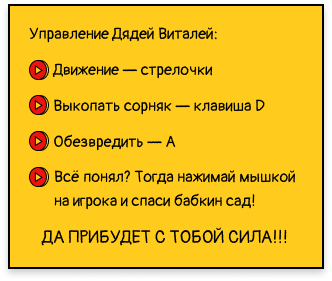
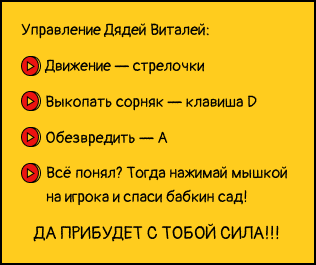
Everything Works

diff --git a/GrannysGardenGame/View/BossLevel.cs b/GrannysGardenGame/View/BossLevel.cs
@@ -30,8 +30,7 @@ namespace GrannysGardenGame.View
         Bitmap healthText = new Bitmap(@".\Images\HealthText.png");
         Bitmap scoreText = new Bitmap(@".\Images\ScoreTextpng.png");
         Bitmap bulletImage = new Bitmap(@".\Images\Bullet.png");
-        Bitmap learnImage = new Bitmap(@".\Images\Learn.png");
-        Bitmap toWinImage = new Bitmap(@".\Images\ToWin.png");
+        Bitmap learnImage = new Bitmap(@".\Images\Boss Learn.png");
         Bitmap zaBabkuIPomidoryImage = new Bitmap(@".\Images\ZaBabku.png");
 
         public BossLevel()
@@ -50,28 +49,18 @@ namespace GrannysGardenGame.View
             var learnBox = new PictureBox
             {
                 Width = 316,
-                Height = 201,
-                Location = new Point(25, 200),
+                Height = 284,
+                Location = new Point(27, 180),
                 Image = learnImage
             };
 
             Controls.Add(learnBox);
             
-            var toWinBox = new PictureBox
-            {
-                Width = 145,
-                Height = 100,
-                Location = new Point(115, 34),
-                Image = toWinImage
-            };
-            
-            Controls.Add(toWinBox);
-
             var zaBabkuBox = new PictureBox
             {
                 Width = 144,
                 Height = 75,
-                Location = new Point(220, 480),
+                Location = new Point(75, 480),
                 Image = zaBabkuIPomidoryImage
             };
 
@@ -352,8 +341,8 @@ namespace GrannysGardenGame.View
                 "W###W",
                 "#####",
                 "##W##",
-                "#####",
-                "W#P#W"
+                "W###W",
+                "##P##"
             };
     }
 }

diff --git a/GrannysGardenGame/View/GameForm.cs b/GrannysGardenGame/View/GameForm.cs
@@ -33,7 +33,7 @@ namespace GrannysGardenGame.View
         Bitmap healthText = new Bitmap(@".\Images\HealthText.png");
         Bitmap scoreText = new Bitmap(@".\Images\ScoreTextpng.png");
         Bitmap bulletImage = new Bitmap(@".\Images\Bullet.png");
-        Bitmap learnImage = new Bitmap(@".\Images\Learn.png");
+        Bitmap learnImage = new Bitmap(@".\Images\LearnNew.png");
         Bitmap toWinImage = new Bitmap(@".\Images\ToWin.png");
         Bitmap zaBabkuIPomidoryImage = new Bitmap(@".\Images\ZaBabku.png");
 
@@ -53,7 +53,7 @@ namespace GrannysGardenGame.View
             var learnBox = new PictureBox
             {
                 Width = 316,
-                Height = 201,
+                Height = 265,
                 Location = new Point(25, 200),
                 Image = learnImage
             };
@@ -62,9 +62,9 @@ namespace GrannysGardenGame.View
             
             var toWinBox = new PictureBox
             {
-                Width = 145,
-                Height = 100,
-                Location = new Point(115, 34),
+                Width = 154,
+                Height = 112,
+                Location = new Point(12, 20),
                 Image = toWinImage
             };
             
